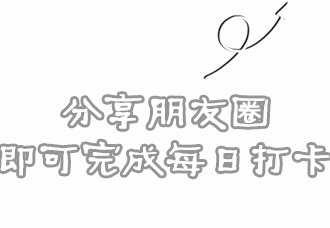
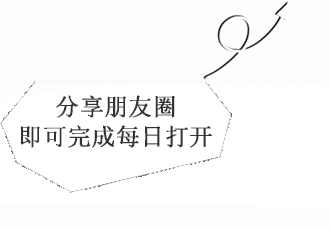
更改分享图标

diff --git a/finished.html b/finished.html
@@ -9,9 +9,14 @@
 		<title></title>
 	</head>
 	<body>
-		<div id="shareit" style="display:none;">
-			<img class="arrow" src="img/guide.png">
+		<!-- 用来显示的图片 -->
+		<div class="share_img">
+			<img src="img/guide.png">
+			
 		</div>
+
+		<!-- 最底下的蒙层 -->
+		<div class="bg"></div>
 		<div class="white">
 			<div class="userName">
 				用户名
@@ -44,12 +49,14 @@
 
 		//立即分享到微信朋友圈点击事件
 		$(".yellow").on("click", function() {
-			$("#shareit").show();
+			$(".bg").show();
+			$(".share_img").show();
 		});
 
 
-		$("#shareit").on("click", function() {
-			$("#shareit").hide();
+		$(".bg").on("click", function() {
+			$(this).hide();
+			$(".share_img").hide();
 		});
 	</script>
 </html>

diff --git a/css/finished.css b/css/finished.css
@@ -71,7 +71,7 @@ body{
 	font-weight: bold;
 }
 
-//分享
+/* //分享
 #shareit {
   -webkit-user-select: none;
   display: none;
@@ -92,5 +92,25 @@ body{
   position: absolute;
   right: 10%;
   top: 5%;
-}
+} */
 
+.share_img {
+  position: fixed;
+  top: 0;
+  right: 0;
+  z-index: 1;
+  display: none;
+}
+.share_img img {
+  width: 100%;
+}
+.bg {
+  background: rgba(0, 0, 0, 0.8);
+  position: fixed;
+  left: 0;
+  top: 0;
+  width: 100%;
+  height: 100%;
+  z-index: 0;
+  display: none;
+}
